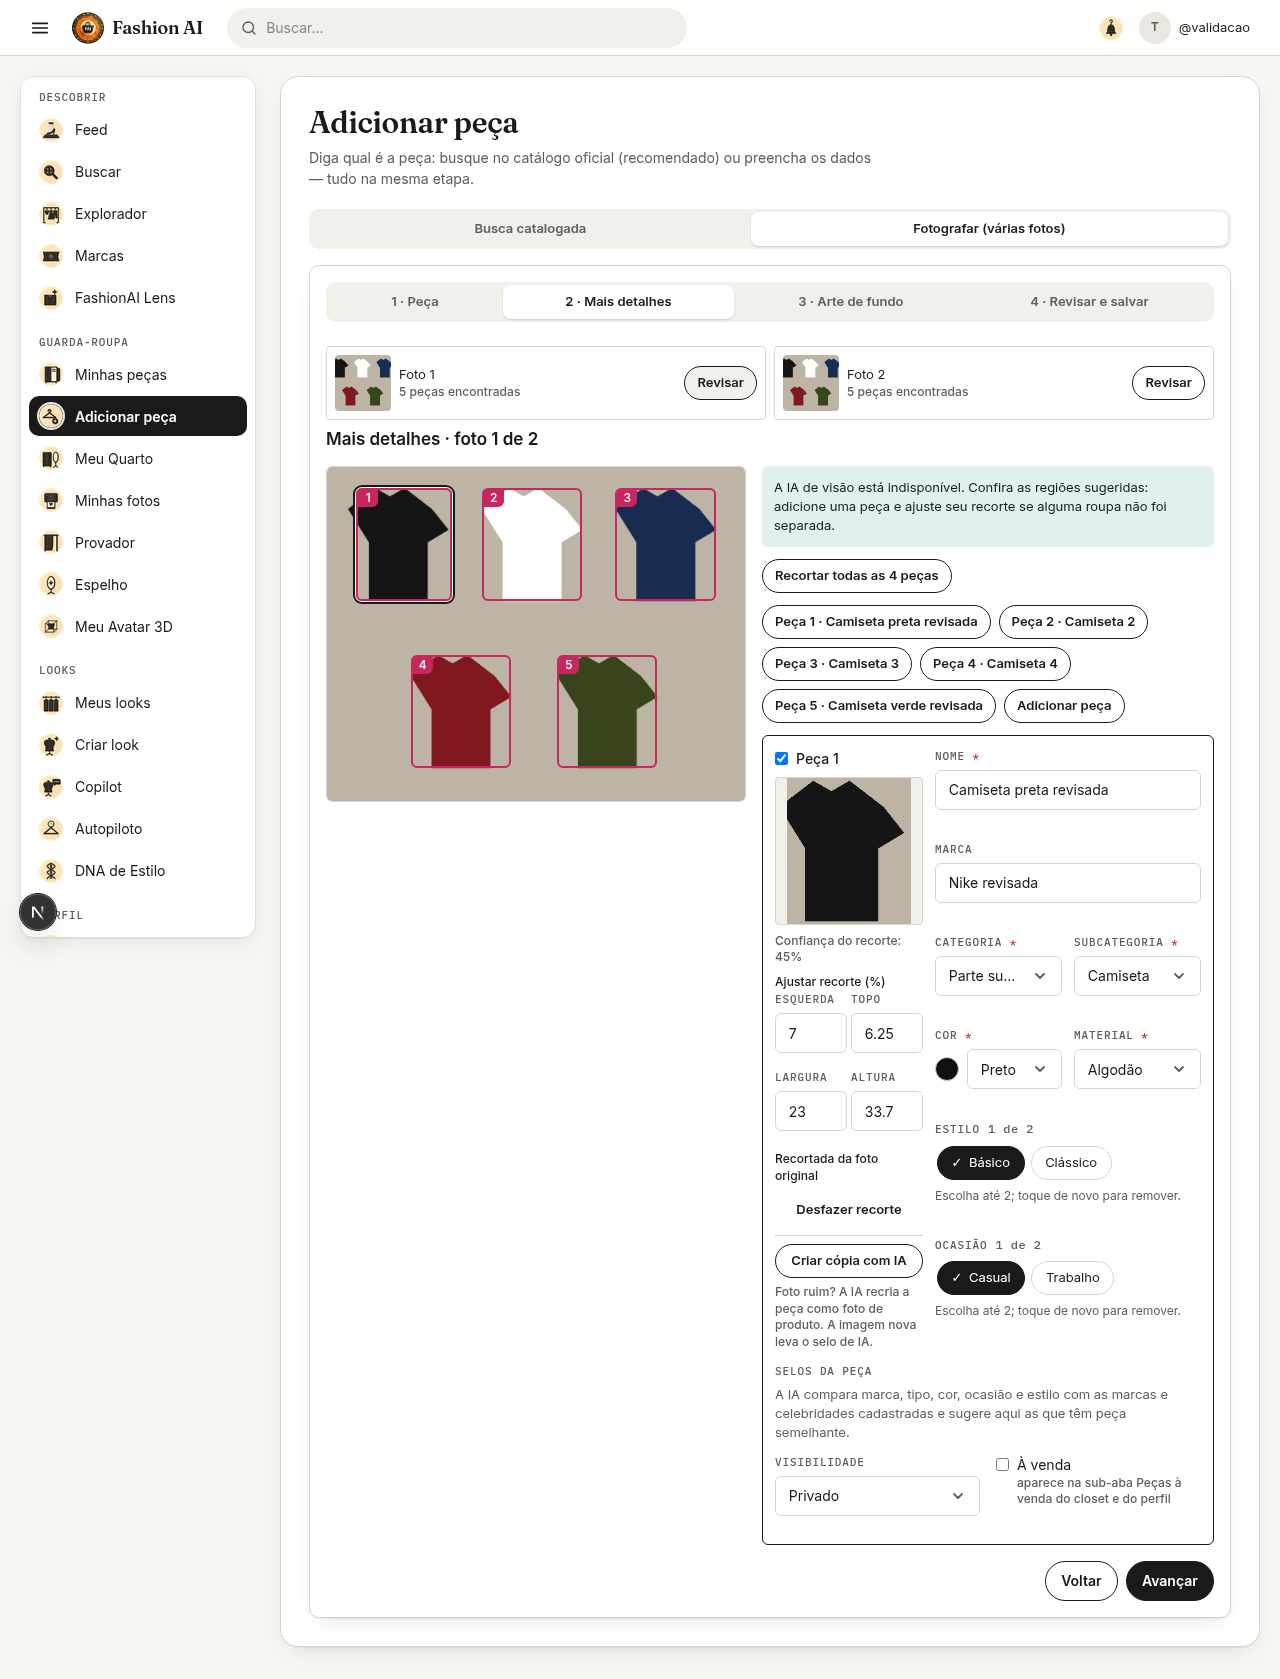
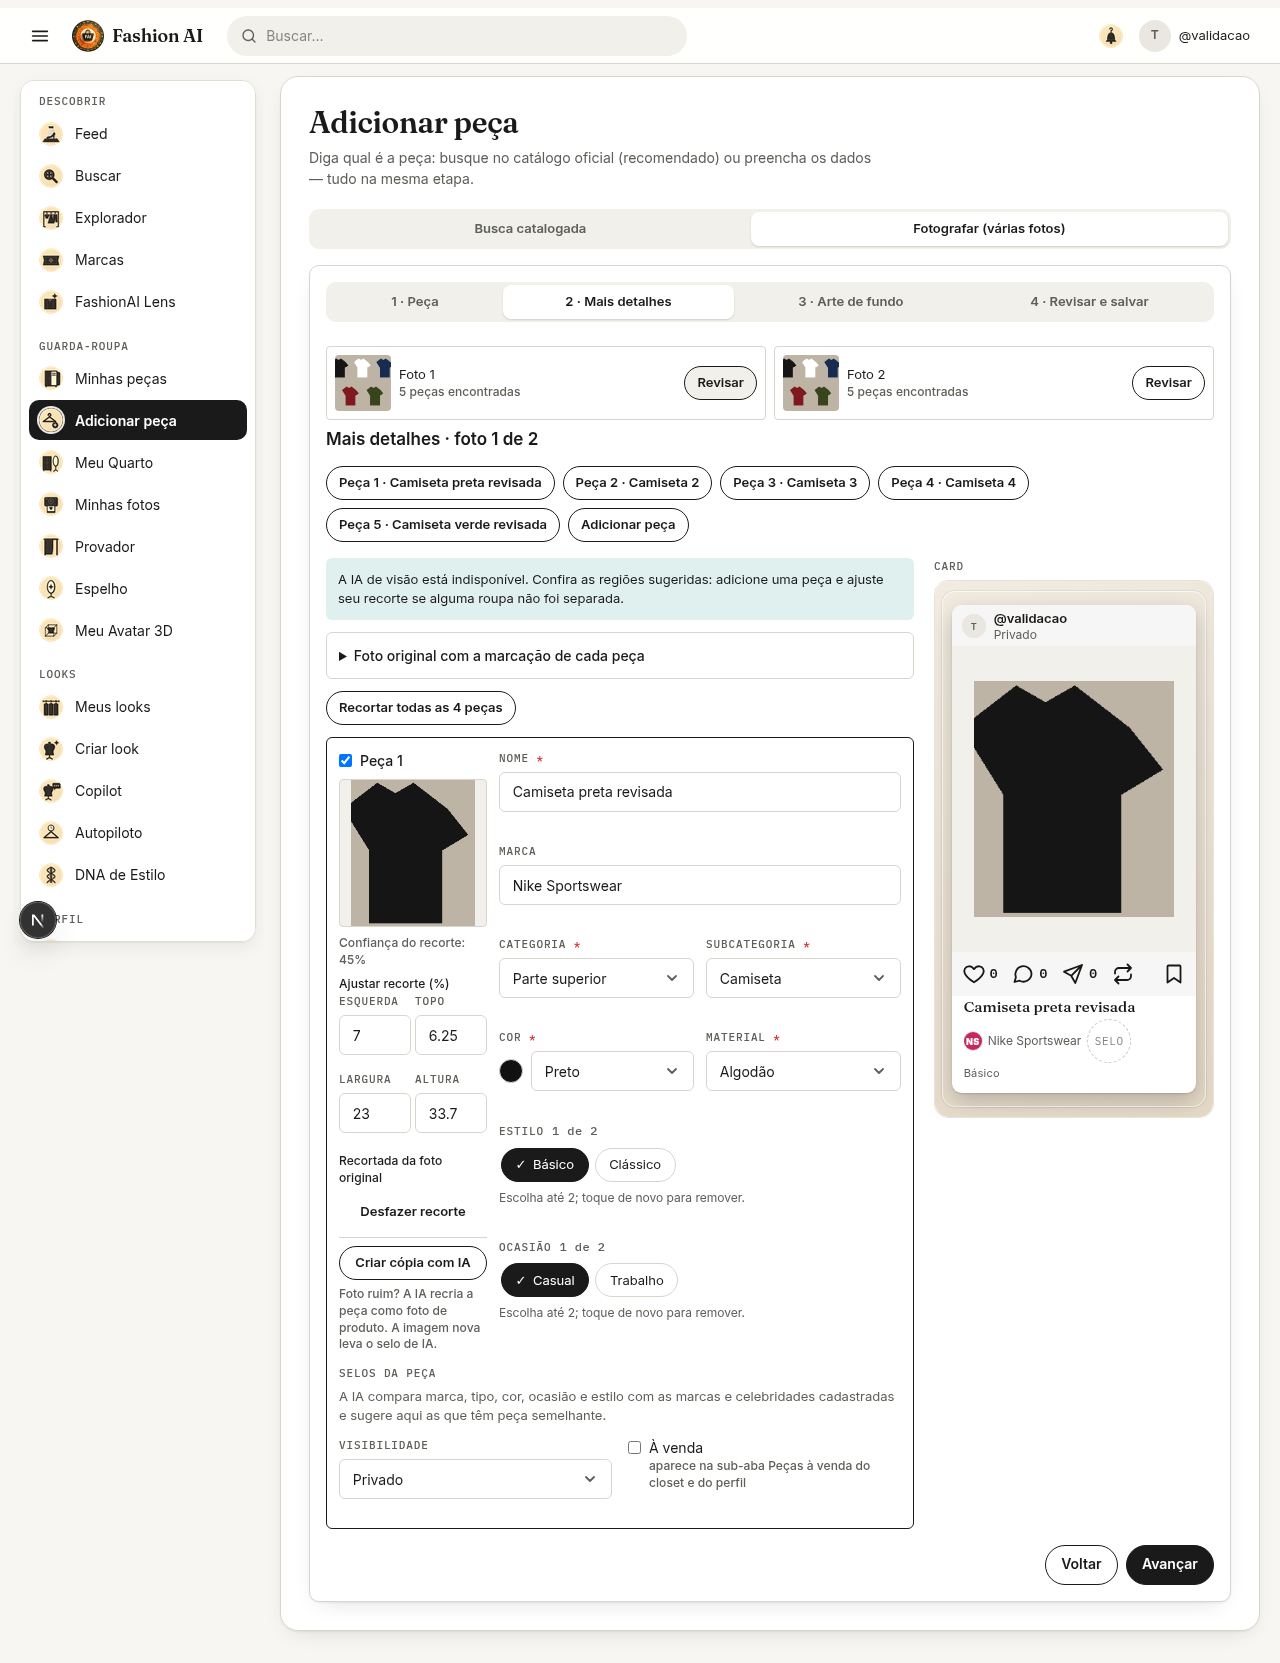
Organiza edição de fotos com prévia lateral e seletor de marca

diff --git a/components/multi-piece-review.tsx b/components/multi-piece-review.tsx
@@ -13,6 +13,8 @@ import { useCaptureTutorialPrefs } from "@/lib/capture/tutorial-prefs";
 import { EMPTY_PIECE, PIECE_CATEGORIES, PIECE_MAX_TAGS, PieceMoreDetails, toPayload, validatePieceForm, type PieceFormValue } from "@/components/piece-form";
 import { PieceCreationSteps, type PieceCreationStep } from "@/components/piece-creation-steps";
 import { PieceArtEditor } from "@/components/piece-art-editor";
+import { PieceCard } from "@/components/piece-card";
+import { BrandAutocomplete } from "@/components/catalog/brand-autocomplete";
 import { useAuth } from "@/lib/auth/session";
 
 /** Caixa da peça em % (0–100) da largura e da altura da foto: x/y = canto superior esquerdo. */
@@ -239,6 +241,7 @@ function photoPreview(row: Row, user: UserCard | null, tax: Taxonomy | null): Pi
   return {
     id: `photo-preview-${row.index}`, owner: user ?? { id: "", username: "", displayName: "", profileType: "PESSOAL", verified: false, privateAccount: false },
     name: v.name, category: v.category, subcategory: v.subcategory, sex: v.sex, brandName: v.brandName || null,
+    brandLogoUrl: v.brandLogoUrl ?? null,
     color: v.color, colorHex: tax?.colors[v.color] ?? null, material: v.material, size: v.size, style: v.style, occasion: v.occasion,
     seals: v.seals, price: v.price === "" ? null : Number(v.price), imageUrl: image, thumbnailUrl: image,
     studioImageUrl: null, studioThumbUrl: null, studioFeedUrl: null, defaultImage: false, visibility: v.visibility,
@@ -393,24 +396,24 @@ export function MultiPieceReview({ file, detection, subtitle, onClose, onSaved, 
     <section aria-label={subtitle ? `${t("pieceForm.moreDetails")} · ${subtitle}` : t("pieceForm.moreDetails")} className="grid gap-4">
       {step === undefined && <PieceCreationSteps value={currentStep} onChange={go} />}
       <h2 className="type-h3">{currentStep === "art" ? t("pieces.new.etapa_arte") : currentStep === "review" ? t("builder.step.review") : t("pieceForm.moreDetails")}{subtitle ? ` · ${subtitle}` : ""}</h2>
-      <div className="grid gap-4 lg:grid-cols-[minmax(0,420px)_1fr]">
-        <div className="lg:sticky lg:top-0 lg:self-start">
-          <div className="relative overflow-hidden rounded-md border border-line-soft" role="group" aria-label={t("multiPiece.marcacoes")}>
-            <img src={photo} alt="" className="block h-auto w-full" />
-            {rows.map((r, i) => (
-              <button key={r.index} type="button" aria-label={t("multiPiece.peca_n", { n: i + 1 })}
-                aria-pressed={active === r.index} disabled={saving} onClick={() => setActive(r.index)}
-                className={cn("absolute rounded-sm border-2", r.include ? "border-solid" : "border-dashed opacity-50", active === r.index && "ring-2 ring-offset-1")}
-                style={{ left: `${r.box.x}%`, top: `${r.box.y}%`, width: `${r.box.width}%`, height: `${r.box.height}%`, borderColor: "var(--mark, #e4572e)" }}>
-                <span className="absolute left-0 top-0 min-w-5 rounded-br-sm px-1 type-caption font-medium text-white" style={{ background: "var(--mark, #e4572e)" }}>{i + 1}</span>
-              </button>
-            ))}
-          </div>
-        </div>
+      <div role="group" aria-label={t("multiPiece.slots")} className="flex flex-wrap gap-2">
+        {rows.map((r, i) => <Button key={r.index} size="sm" aria-pressed={active === r.index} disabled={saving} onClick={() => setActive(r.index)}>
+          {t("multiPiece.peca_n", { n: i + 1 })} · {r.value.name}{r.status === "saved" ? " ✓" : r.status === "error" || r.errors ? " !" : ""}
+        </Button>)}
+        {currentStep === "more" && <Button size="sm" onClick={addWholePhoto} disabled={!tax || saving || rows.length >= 12}>{t("multiPiece.adicionar_slot")}</Button>}
+      </div>
+      <div className={currentStep === "art" ? "grid gap-5" : "grid gap-5 lg:grid-cols-[minmax(0,1fr)_280px]"}>
         <div className="grid min-w-0 content-start gap-3">
+          {currentStep === "more" && <>
           {detection.source === "local" ? <p role="note" className="rounded-md bg-thread-soft p-3 type-body-sm">{t("multiPiece.revisao_local")}</p>
             : rows.length > 0 && <p role="note" className="type-body-sm">{t("multiPiece.encontradas", { count: rows.length })}</p>}
           {detection.aiMessage && <p className="type-caption text-muted">{detection.aiMessage}</p>}
+          <details className="rounded-md border border-line-soft p-3">
+            <summary className="cursor-pointer font-medium">{t("multiPiece.marcacoes")}</summary>
+            <div className="mt-3 max-w-md">
+              <PhotoRegionMap source={photo} rows={rows} active={active} disabled={saving} onSelect={setActive} />
+            </div>
+          </details>
           {currentStep === "more" && rows.some((r) => r.index >= 0 && r.status !== "saved") && (
             <div className="flex flex-wrap items-center gap-2">
               <Button size="sm" onClick={cropAll} loading={cropping} disabled={saving || !uncropped.length}>{t("multiPiece.recortar_todas", { count: uncropped.length })}</Button>
@@ -420,12 +423,7 @@ export function MultiPieceReview({ file, detection, subtitle, onClose, onSaved, 
           {tax && rows.length === 0 && detection.pieces.length === 0 && (
             <div className="grid gap-2"><p>{t("multiPiece.nenhuma")}</p><Button onClick={addWholePhoto}>{t("multiPiece.usar_foto_inteira")}</Button></div>
           )}
-          <div role="group" aria-label={t("multiPiece.slots")} className="flex flex-wrap gap-2">
-            {rows.map((r, i) => <Button key={r.index} size="sm" aria-pressed={active === r.index} disabled={saving} onClick={() => setActive(r.index)}>
-              {t("multiPiece.peca_n", { n: i + 1 })} · {r.value.name}{r.status === "saved" ? " ✓" : r.status === "error" || r.errors ? " !" : ""}
-            </Button>)}
-            {currentStep === "more" && <Button size="sm" onClick={addWholePhoto} disabled={!tax || saving || rows.length >= 12}>{t("multiPiece.adicionar_slot")}</Button>}
-          </div>
+          </>}
           {currentStep === "more" && rows.filter((r) => r.index === active).map((r) => (
             <PieceRow key={r.index} id={`multi-piece-${detection.draftId}-${r.index}`} n={rows.indexOf(r) + 1} row={r} tax={tax} active disabled={saving}
               onInclude={(include) => update(r.index, { include })} onChange={(v) => setValue(r.index, v)}
@@ -447,9 +445,31 @@ export function MultiPieceReview({ file, detection, subtitle, onClose, onSaved, 
           </ul>}
           {problem && <p role="alert" className="error-text">{problem}</p>}
         </div>
+        {currentStep !== "art" && rows.filter((r) => r.index === active).map((r) => <aside key={r.index} aria-label={t("common.pre_visualizacao")} className="card-preview lg:sticky lg:top-16 lg:self-start">
+          <p className="label">{t("scheme.card")}</p><PieceCard piece={photoPreview(r, user, tax)} href="#" />
+        </aside>)}
       </div>
       {footer}
     </section>
+  );
+}
+
+function PhotoRegionMap({ source, rows, active, disabled, onSelect }: {
+  source: string; rows: readonly Row[]; active: number | null; disabled: boolean; onSelect: (index: number) => void;
+}) {
+  const { t } = useI18n();
+  return (
+    <div className="relative overflow-hidden rounded-md border border-line-soft" role="group" aria-label={t("multiPiece.marcacoes")}>
+      <img src={source} alt="" className="block h-auto w-full" />
+      {rows.map((r, i) => (
+        <button key={r.index} type="button" aria-label={t("multiPiece.peca_n", { n: i + 1 })}
+          aria-pressed={active === r.index} disabled={disabled} onClick={() => onSelect(r.index)}
+          className={cn("absolute rounded-sm border-2", r.include ? "border-solid" : "border-dashed opacity-50", active === r.index && "ring-2 ring-offset-1")}
+          style={{ left: `${r.box.x}%`, top: `${r.box.y}%`, width: `${r.box.width}%`, height: `${r.box.height}%`, borderColor: "var(--mark, #e4572e)" }}>
+          <span className="absolute left-0 top-0 min-w-5 rounded-br-sm px-1 type-caption font-medium text-white" style={{ background: "var(--mark, #e4572e)" }}>{i + 1}</span>
+        </button>
+      ))}
+    </div>
   );
 }
 
@@ -511,7 +531,13 @@ function PieceRow({ id, n, row, tax, active, disabled, onInclude, onChange, onBo
       </div>
       <fieldset disabled={locked || !row.include} className="grid min-w-0 gap-x-3 sm:grid-cols-2">
         <Field label={t("common.nome")} id={fid("name")} required error={err.name} className="sm:col-span-2"><Input id={fid("name")} value={v.name} maxLength={80} onChange={(e) => set("name", e.target.value)} /></Field>
-        <Field label={t("common.brand")} id={fid("brand")} error={err.brandName} className="sm:col-span-2"><Input id={fid("brand")} value={v.brandName} maxLength={60} onChange={(e) => set("brandName", e.target.value)} /></Field>
+        <Field label={t("common.brand")} id={fid("brand")} error={err.brandName} className="sm:col-span-2">
+          <BrandAutocomplete id={fid("brand")} value={v.brandName} maxLength={60} onChange={(brandName, brand) => onChange({ ...v,
+            brandName, brandId: brand?.id ?? null, brandLogoUrl: brand?.logoUrl ?? null,
+            brandLogoWideUrl: null, brandDomain: null, brandEdgePx: null,
+            brandSource: brand ? "CATALOGO" : null, brandRef: brand?.id ?? null,
+          })} />
+        </Field>
         <Field label={t("common.category")} id={fid("category")} required error={err.category}>
           <Select id={fid("category")} value={v.category} onChange={(e) => onChange({ ...v, category: e.target.value, subcategory: tax?.subcategories?.[e.target.value]?.[0] ?? "", occasion: keepAllowed(v.occasion, allowedOccasions(e.target.value)) })}>
             {categories.map((c) => <option key={c} value={c}>{CATEGORY_LABEL[c] ?? label(c)}</option>)}

diff --git a/components/multi-piece-review.test.tsx b/components/multi-piece-review.test.tsx
@@ -70,6 +70,8 @@ describe("várias peças numa foto — revisão (RF4)", () => {
     expect(within(slots).getAllByRole("button", { name: /^Peça \d ·/ })).toHaveLength(5);
     expect(screen.queryByRole("dialog")).toBeNull();
     expect(screen.queryByRole("button", { name: /^Salvar \d/ })).toBeNull();
+    expect(screen.getByRole("complementary", { name: "pré-visualização" })).toBeTruthy();
+    expect(container.querySelector("details")?.open).toBe(false);
     fireEvent.change(screen.getByDisplayValue("Camiseta 1"), { target: { value: "Minha Nike" } });
     expect((screen.getByLabelText("Marca") as HTMLInputElement).value).toBe("Nike");
     fireEvent.change(screen.getByLabelText("Marca"), { target: { value: "Nike Sportswear" } });
@@ -89,6 +91,8 @@ describe("várias peças numa foto — revisão (RF4)", () => {
     expect(screen.getByDisplayValue("Minha Nike")).toBeTruthy();
     expect(calls.filter((call) => call.path === "/api/pieces/analysis/multi")).toHaveLength(1);
     fireEvent.click(screen.getByRole("button", { name: "Avançar" }));
+    expect(screen.queryByRole("complementary", { name: "pré-visualização" })).toBeNull();
+    expect(container.querySelector("details")).toBeNull();
     fireEvent.change(screen.getByLabelText("Cor de fundo"), { target: { value: "#c51a53" } });
     fireEvent.click(screen.getByRole("button", { name: /Peça 2 · Minha Adidas/ }));
     expect((screen.getByLabelText("Cor de fundo") as HTMLInputElement).value).toBe("");
@@ -108,6 +112,29 @@ describe("várias peças numa foto — revisão (RF4)", () => {
     expect(calls.filter((call) => call.path.includes("/d1/pieces?")).map((call) => call.path)).toEqual([0, 1, 2, 3, 4].map((index) => `/api/pieces/analysis/multi/d1/pieces?index=${index}`));
   });
 
+  it("permite escolher uma marca cadastrada ou texto livre por slot e persiste a escolha sem copiar para outra peça", async () => {
+    const { calls } = mockApi({
+      "GET /api/taxonomy": TAXONOMY,
+      "GET /api/catalog/brands": (url: URL) => ({ brands: url.searchParams.get("q") === "Nik" ? [{ id: "brand-nike", name: "Nike", slug: "nike", logoUrl: "/media/nike.png" }] : [] }),
+      "POST /api/pieces/analysis/multi/d1/pieces": { draftId: "cropped" }, "POST /api/pieces": { id: "new" },
+    });
+    renderApp(<MultiPieceReview file={photo()} detection={DETECTION} onClose={() => {}} onSaved={() => {}} />);
+    await screen.findByLabelText("Marca");
+    fireEvent.change(screen.getByLabelText("Marca"), { target: { value: "Nik" } });
+    fireEvent.mouseDown(await screen.findByRole("option", { name: /Nike/ }));
+    fireEvent.click(screen.getByRole("button", { name: /Peça 2 · Calça jeans/ }));
+    expect((screen.getByLabelText("Marca") as HTMLInputElement).value).toBe("");
+    fireEvent.change(screen.getByLabelText("Marca"), { target: { value: "Ateliê local" } });
+    fireEvent.click(screen.getByRole("button", { name: /Peça 1 · Saia azul/ }));
+    expect((screen.getByLabelText("Marca") as HTMLInputElement).value).toBe("Nike");
+    advanceToReview();
+    fireEvent.click(screen.getByRole("button", { name: "Salvar 2 peças" }));
+    await waitFor(() => expect(calls.filter((call) => call.path === "/api/pieces")).toHaveLength(2));
+    const payloads = calls.filter((call) => call.path === "/api/pieces").map((call) => call.body);
+    expect(payloads[0]).toMatchObject({ brandId: "brand-nike", brandName: "Nike", brandLogoUrl: "/media/nike.png" });
+    expect(payloads[1]).toMatchObject({ brandId: null, brandName: "Ateliê local", brandLogoUrl: null });
+  });
+
   it("edita cinco slots em Mais detalhes sem modal e preserva nome, cor e recorte ao alternar", async () => {
     mockApi({ "GET /api/taxonomy": TAXONOMY });
     const five = { ...DETECTION, pieces: Array.from({ length: 5 }, (_, index) => ({ ...DETECTION.pieces[0], index, name: `Camiseta ${index + 1}` })) };
@@ -122,7 +149,7 @@ describe("várias peças numa foto — revisão (RF4)", () => {
     fireEvent.click(screen.getByRole("button", { name: /Peça 5 · Camiseta 5/ }));
     expect(screen.queryByDisplayValue("Minha camiseta preta")).toBeNull();
     fireEvent.change(screen.getByDisplayValue("Camiseta 5"), { target: { value: "Minha camiseta branca" } });
-    fireEvent.click(screen.getByRole("button", { name: "Peça 1", exact: true }));
+    fireEvent.click(screen.getByRole("button", { name: /Peça 1 · Minha camiseta preta/ }));
     expect(screen.getByDisplayValue("Minha camiseta preta")).toBeTruthy();
     expect(screen.getByLabelText(/Cor/).textContent).toContain("Preto");
     expect((screen.getByLabelText("Esquerda") as HTMLInputElement).value).toBe("20");

diff --git a/components/catalog/brand-autocomplete.tsx b/components/catalog/brand-autocomplete.tsx
@@ -13,8 +13,8 @@ export interface CatalogBrand { id: string; name: string; slug: string; logoUrl?
  * lista evita marcas duplicadas; texto livre continua permitido (marca ainda desconhecida vira "não encontrada no
  * catálogo", nunca criada em silêncio).
  */
-export function BrandAutocomplete({ value, onChange, id, placeholder, autoFocus }: {
-  value: string; onChange: (name: string, brand: CatalogBrand | null) => void; id?: string; placeholder?: string; autoFocus?: boolean;
+export function BrandAutocomplete({ value, onChange, id, placeholder, autoFocus, maxLength }: {
+  value: string; onChange: (name: string, brand: CatalogBrand | null) => void; id?: string; placeholder?: string; autoFocus?: boolean; maxLength?: number;
 }) {
   const { t } = useI18n();
   const listId = useId();
@@ -31,7 +31,7 @@ export function BrandAutocomplete({ value, onChange, id, placeholder, autoFocus 
     const h = setTimeout(async () => {
       try {
         const r = await api.get<{ brands: CatalogBrand[] }>(`/api/catalog/brands?q=${encodeURIComponent(term)}`, { signal: ctl.signal });
-        if (n === seq.current) { setOptions(r.brands ?? []); setOpen(true); setActive(0); }
+        if (n === seq.current) { setOptions(r.brands ?? []); setActive(0); }
       } catch { /* sem sugestões: texto livre segue valendo */ }
     }, 280);
     return () => { clearTimeout(h); ctl.abort(); };
@@ -39,9 +39,9 @@ export function BrandAutocomplete({ value, onChange, id, placeholder, autoFocus 
   const pick = (b: CatalogBrand) => { picked.current = b.name; onChange(b.name, b); setOptions([]); setOpen(false); };
   return (
     <div className="relative">
-      <Input id={id} value={value} autoFocus={autoFocus} placeholder={placeholder ?? t("catalog.brand_placeholder")} autoComplete="off"
+      <Input id={id} value={value} autoFocus={autoFocus} maxLength={maxLength} placeholder={placeholder ?? t("catalog.brand_placeholder")} autoComplete="off"
         role="combobox" aria-expanded={open && options.length > 0} aria-controls={listId} aria-autocomplete="list"
-        onChange={(e) => { picked.current = null; onChange(e.target.value, null); }}
+        onChange={(e) => { picked.current = null; setOptions([]); setOpen(true); onChange(e.target.value, null); }}
         onFocus={() => options.length && setOpen(true)} onBlur={() => setTimeout(() => setOpen(false), 120)}
         onKeyDown={(e) => {
           if (!open || !options.length) return;

diff --git a/docs/rf4-fotografia-multiplas-pecas-2026-10-09.md b/docs/rf4-fotografia-multiplas-pecas-2026-10-09.md
@@ -2,11 +2,13 @@
 
 Uma foto com cinco roupas deve abrir cinco rascunhos independentes em **2 — Mais detalhes**. O catálogo e o modo **Fotografar (várias fotos)** agora compartilham a barra **Peça → Mais detalhes → Arte de fundo → Revisar e salvar**. A revisão acontece na página. Trocar de peça, foto ou etapa preserva nome, marca, recorte, visibilidade e arte de cada slot. Somente a última etapa envia os cadastros; a gravação continua foto por foto e reenvia apenas peças que falharam.
 
+O formulário é o container principal em **Mais detalhes** e **Revisar e salvar**, com a prévia do card em uma coluna lateral de 280 px no desktop, igual ao catálogo. Os slots ficam no topo. A foto original com marcações fica recolhida, disponível para conferir recortes; ela não reaparece nas etapas de arte e revisão. O editor de arte ocupa a área inteira e usa sua própria prévia lateral, evitando duplicação. Em telas menores, os campos vêm antes da prévia.
+
 ## Detecção
 
 O fallback anterior descartava toda proposta quando menos de 80% das bordas correspondiam ao mesmo fundo. Lençóis com sombras e móveis nas bordas terminavam numa única caixa cobrindo a foto inteira. A separação local agora também usa um grafo de vizinhos com limiar adaptativo por região, limitado a 480 × 480 pixels. Exclui regiões ligadas às bordas e ruído; fronteiras extensas de estampas/blocos de cor são reunidas antes de propor caixas. Não existe quantidade fixa de roupas nem divisão por posições predefinidas.
 
-Cada região fornece sua própria cor aproximada, traduzida para a paleta existente. O fallback não reconhece categoria, material ou marca. A visão remota recebe uma instrução explícita para separar peças do mesmo tipo e retornar `brandName` por peça somente quando houver logo ou etiqueta reconhecível. A marca permanece editável e segue no payload existente de `POST /api/pieces`; não há migração de banco.
+Cada região fornece sua própria cor aproximada, traduzida para a paleta existente. O fallback não reconhece categoria, material ou marca. A visão remota recebe uma instrução explícita para separar peças do mesmo tipo e retornar `brandName` por peça somente quando houver logo ou etiqueta reconhecível. Cada slot oferece o seletor pesquisável de marcas do catálogo (`GET /api/catalog/brands?q=`), com nome e identificador da marca selecionada. Texto livre continua permitido quando a marca não estiver cadastrada. Alterar o nome remove o identificador e o logo anteriores, sem afetar outros slots. A escolha segue no payload existente de `POST /api/pieces`; não há migração de banco.
 
 ## Arquivos e contratos
 
@@ -17,7 +19,7 @@ Cada região fornece sua própria cor aproximada, traduzida para a paleta existe
 
 ## Validação e limites
 
-Validação: 20 testes Java dirigidos, 32 testes de regressão do Lens, 18 testes do fluxo de fotografia e 4 testes do editor de arte passaram. Typecheck e build de produção passaram. As [capturas e o relatório](rf4-fotografia-evidence/browser.json) registram as condições dos testes de navegador.
+Validação: 20 testes Java dirigidos, 32 testes de regressão do Lens, 19 testes do fluxo de fotografia e 4 testes do editor de arte passaram. Typecheck passou na atualização de layout e marca; o build do fluxo anterior passou no CI do PR #203. O novo PR executa novamente os checks de produção. As [capturas e o relatório](rf4-fotografia-evidence/browser.json) registram as condições dos testes de navegador.
 
 Vitest verifica cinco slots, quatro etapas, arte e marca por peça, validação entre fotos e recuperação de salvamentos parciais sem duplicação. Chromium em 375 e 1280 px verifica o fluxo real, recortes separados, preservação dos dados e ausência de modal/overflow. A resposta da visão e a API foram simuladas nesses testes de navegador; as imagens são fixtures sintéticas, não a fotografia original do usuário.
 
